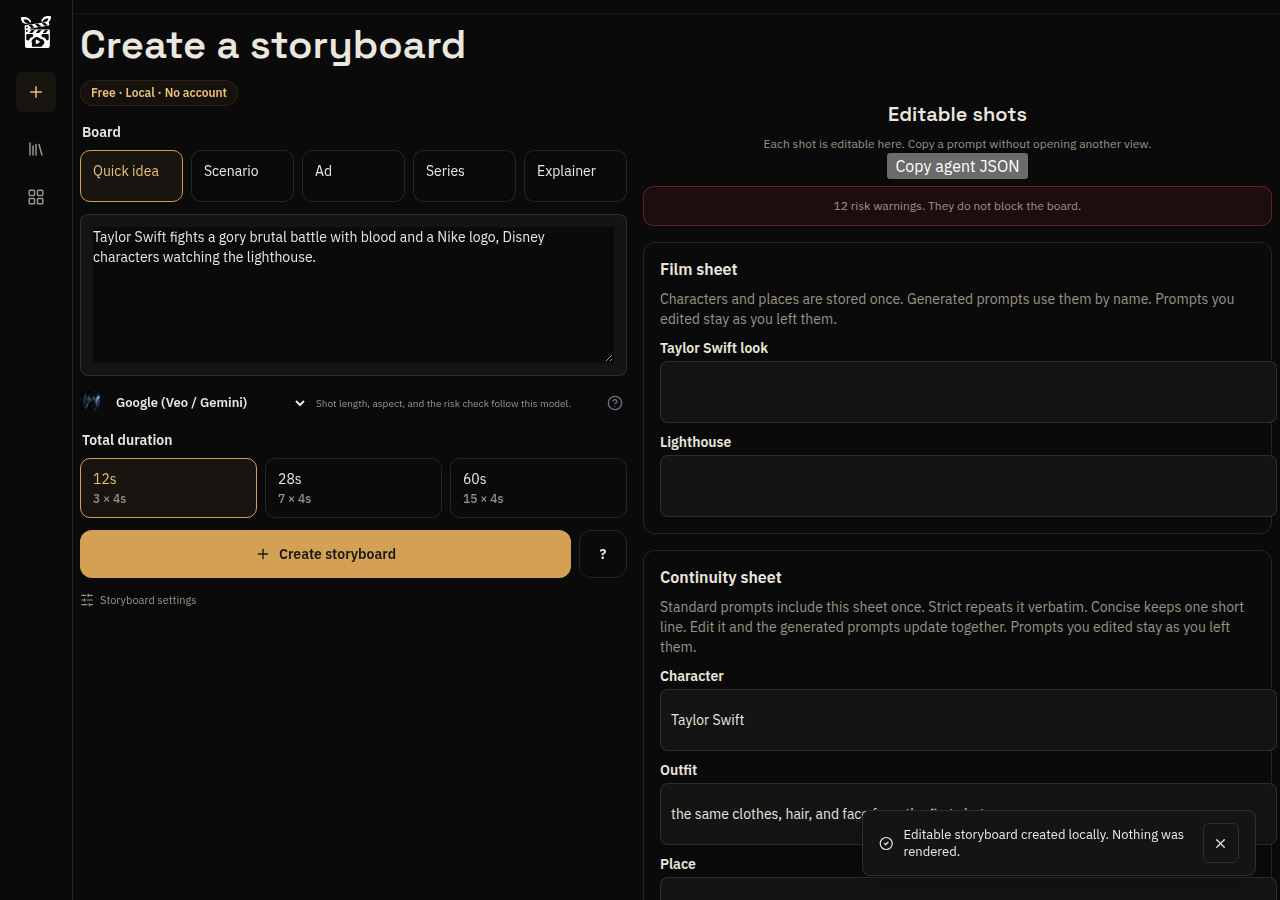
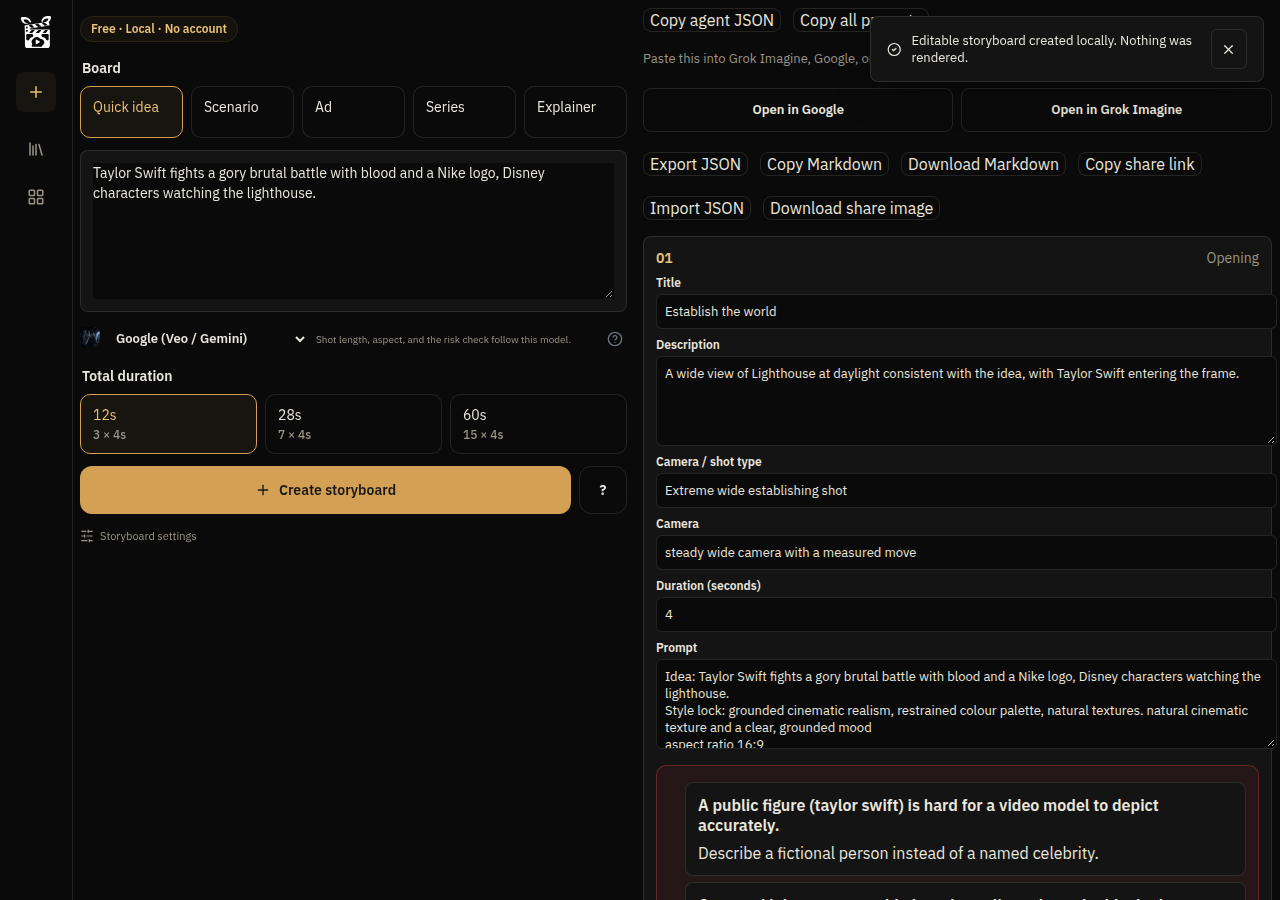
Key the rate limit on X-Real-IP and fix the review notes.
Ignore X-Forwarded-For, return the normalized style family for manga, keep the Lena story to four action sentences, and move the agent-JSON action and toasts off the form fields.

diff --git a/app/components/StudioCreationPanel.vue b/app/components/StudioCreationPanel.vue
@@ -442,7 +442,7 @@ onBeforeUnmount(()=>{clearTimeout(copiedTimer);if(referencePreview.value)URL.rev
     <StudioStepBuilder v-if="stepByStep && boardKind==='quick'" :scenes="builderScenes" :count="boardReady ? project.shots.length : count" @add="addBuilderScene" @remove="removeBuilderScene" @move="moveBuilderScene" @update="updateBuilderScene" @count="changeSceneCount" />
    </details>
   </form></div>
-  <section id="editable-shots" class="studio-preview-panel"><div class="studio-preview-heading"><h2>Editable shots</h2><p>Each shot is editable here. Copy a prompt without opening another view.</p><button v-if="boardReady" type="button" @click="copyAgentBoard">Copy agent JSON</button><p v-if="shotWarnings.length" class="studio-risk-summary" role="status">{{ shotWarnings.length }} risk {{ shotWarnings.length === 1 ? 'warning' : 'warnings' }}. They do not block the board.</p><p v-if="boardReady && boardKind==='quick' && project.detection?.hints?.length" class="studio-soft-hint">Names are optional on a quick idea. Add one if you want the film sheet to repeat a person.</p><ul v-if="boardReady && detectionWarnings.length" class="studio-scenario-warnings"><li v-for="warning in detectionWarnings" :key="warning.code + warning.message">{{ warning.message }}</li></ul></div><section v-if="boardReady && project.filmSheet" class="studio-continuity" aria-label="Film sheet"><h3>Film sheet</h3><p>Characters and places are stored once. Generated prompts use them by name. Prompts you edited stay as you left them.</p><label v-for="(character, index) in project.filmSheet.characters" :key="`cast-${index}`">{{ character.name }} look<input :value="character.look" :aria-label="`${character.name} look`" @change="editCast(index, 'look', $event.target.value)" /></label><label v-for="(place, index) in project.filmSheet.places" :key="`place-${index}`">{{ place.name }}<input :value="place.description" :aria-label="`${place.name} description`" @change="editPlace(index, $event.target.value)" /></label><p v-for="sequence in project.sequences || []" :key="sequence.order"><button type="button" @click="copyText(sequence.export, `Sequence ${sequence.order} copied`)">Copy sequence {{ sequence.order }} ({{ sequence.duration }}s)</button></p></section><section v-if="boardReady && project.sequenceMode==='continuous' && project.continuitySheet" class="studio-continuity" aria-label="Continuity sheet"><h3>Continuity sheet</h3><p>Standard prompts include this sheet once. Strict repeats it verbatim. Concise keeps one short line. Edit it and the generated prompts update together. Prompts you edited stay as you left them.</p><label>Character<input :value="project.continuitySheet.character" aria-label="Continuity character" @change="editSheet('character',$event.target.value)" /></label><label>Outfit<input :value="project.continuitySheet.appearance" aria-label="Continuity outfit" @change="editSheet('appearance',$event.target.value)" /></label><label>Place<input :value="project.continuitySheet.place" aria-label="Continuity place" @change="editSheet('place',$event.target.value)" /></label><label>Time of day / light<input :value="project.continuitySheet.time" aria-label="Continuity time of day" @change="editSheet('time',$event.target.value)" /></label><label>Lighting<input :value="project.continuitySheet.lighting" aria-label="Continuity lighting" @change="editSheet('lighting',$event.target.value)" /></label><label>Palette<input :value="project.continuitySheet.palette" aria-label="Continuity palette" @change="editSheet('palette',$event.target.value)" /></label><label>Style<input :value="project.continuitySheet.style" aria-label="Continuity style" @change="editSheet('style',$event.target.value)" /></label><label v-if="project.continuitySheet.dialogue">Dialogue<input :value="project.continuitySheet.dialogue" aria-label="Continuity dialogue" @change="editSheet('dialogue',$event.target.value)" /></label><p v-if="project.continuitySheet.avoid">Do not show: {{ project.continuitySheet.avoid }}</p></section><div class="studio-shot-toolbar"><button class="copy-prompt-button" type="button" @click="copyAllPrompts">{{ copiedKey==='all' ? 'Copied' : 'Copy all prompts' }}</button><p class="studio-paste-hint">Paste this into Grok Imagine, Google, or any other AI image or video model.</p><OpenInButtons v-if="boardReady" :prompt="boardOpenPrompt" :seed="1" /><button class="copy-prompt-button" type="button" @click="exportStoryboardJson">Export JSON</button><button class="copy-prompt-button" type="button" @click="copyMarkdown">{{ copiedKey==='markdown' ? 'Copied' : 'Copy Markdown' }}</button><button class="copy-prompt-button" type="button" @click="downloadMarkdown">Download Markdown</button><button class="copy-prompt-button" type="button" @click="copyShareLink">{{ copiedKey==='share' ? 'Copied' : 'Copy share link' }}</button><button class="copy-prompt-button" type="button" @click="$refs.importJson.click()">Import JSON</button><input ref="importJson" class="sr-only" type="file" accept="application/json,.json" @change="importStoryboardJson" /><button class="copy-prompt-button" type="button" @click="downloadShareImage">Download share image</button></div><p v-if="!boardReady" class="studio-shot-empty">Write an idea on the left, then create the storyboard.</p><ol v-else class="studio-shot-list" aria-label="Editable shots"><li v-for="(shot,index) in project.shots" :key="shot.id"><header class="studio-shot-card-heading"><span class="shot-number">{{String(index+1).padStart(2,'0')}}</span><span>{{shot.stage}}</span></header><label>Title<input :value="shot.title" :aria-label="`Title for shot ${index+1}`" @change="store.updateShot(shot.id,'title',$event.target.value)" /></label><label>Description<textarea :value="shot.action" :aria-label="`Description for shot ${index+1}`" @change="store.updateShot(shot.id,'action',$event.target.value)"></textarea></label><label>Camera / shot type<input :value="shot.framing" :aria-label="`Shot type for shot ${index+1}`" @change="store.updateShot(shot.id,'framing',$event.target.value)" /></label><label>Camera<input :value="shot.camera" :aria-label="`Camera for shot ${index+1}`" @change="store.updateShot(shot.id,'camera',$event.target.value)" /></label><label>Duration (seconds)<input type="number" min="2" max="15" :value="shot.duration" :aria-label="`Duration for shot ${index+1}`" @change="store.updateShot(shot.id,'duration',Number($event.target.value))" /></label><label>Prompt<textarea :value="shot.prompt" :aria-label="`Prompt for shot ${index+1}`" @change="store.updateShot(shot.id,'prompt',$event.target.value,false)"></textarea></label><p v-if="shot.promptEdited" class="studio-edited-mark">Edited by you</p><ul v-if="warningsFor(shot.id).length" class="studio-risk-list"><li v-for="item in warningsFor(shot.id)" :key="item.code"><strong>{{ item.message }}</strong> {{ item.fix }}</li></ul><button type="button" class="text-button" @click="store.regenerateOne(shot.id)">Regenerate this shot</button><button v-if="shot.promptEdited" type="button" class="text-button" @click="store.resetShotPrompt(shot.id)">Reset</button><button v-if="store.promptUndo && store.promptUndo.id === shot.id" type="button" class="text-button" @click="store.restorePromptUndo()">Undo</button><button class="copy-prompt-button" :class="{ 'is-copied': copiedKey===`shot:${shot.id}` }" type="button" :aria-label="`Copy prompt for shot ${index+1}`" @click="copyShotPrompt(shot.prompt, shot.id)"><Copy :size="13" />{{ copiedKey===`shot:${shot.id}` ? 'Copied' : 'Copy prompt' }}</button><OpenInButtons :prompt="shot.prompt" :seed="index" /><p class="studio-paste-hint">Paste this into Grok Imagine, Google, or any other AI image or video model.</p></li></ol><p v-if="boardReady" class="studio-thanks">Enjoying Moovicut? <a href="https://buymeacoffee.com/enzoc1977r" target="_blank" rel="noopener">Tips keep it free</a> <span>Tips pay for hosting and keep Moovicut free.</span><a v-if="SOCIAL_X_URL" class="studio-follow" :href="SOCIAL_X_URL" target="_blank" rel="noopener">Follow on X (it's free!)</a></p><nav class="studio-view-tabs" aria-label="Storyboard views"><button type="button" :aria-pressed="activeTab==='preview'" @click="activeTab='preview'">Preview</button><button type="button" :aria-pressed="activeTab==='explore'" @click="activeTab='explore'">Explore</button><button type="button" :aria-pressed="activeTab==='prompts'" @click="activeTab='prompts'">Prompts</button></nav><nav class="studio-provider-list" aria-label="Prompt targets"><span v-for="name in REFERENCE_MODEL_NAMES" :key="name">{{name}}</span></nav><p class="sr-only">Local prompt studies and storyboard results</p>
+  <section id="editable-shots" class="studio-preview-panel"><div class="studio-preview-heading"><h2>Editable shots</h2><p>Each shot is editable here. Copy a prompt without opening another view.</p><p v-if="shotWarnings.length" class="studio-risk-summary" role="status">{{ shotWarnings.length }} risk {{ shotWarnings.length === 1 ? 'warning' : 'warnings' }}. They do not block the board.</p><p v-if="boardReady && boardKind==='quick' && project.detection?.hints?.length" class="studio-soft-hint">Names are optional on a quick idea. Add one if you want the film sheet to repeat a person.</p><ul v-if="boardReady && detectionWarnings.length" class="studio-scenario-warnings"><li v-for="warning in detectionWarnings" :key="warning.code + warning.message">{{ warning.message }}</li></ul></div><section v-if="boardReady && project.filmSheet" class="studio-continuity" aria-label="Film sheet"><h3>Film sheet</h3><p>Characters and places are stored once. Generated prompts use them by name. Prompts you edited stay as you left them.</p><label v-for="(character, index) in project.filmSheet.characters" :key="`cast-${index}`">{{ character.name }} look<input :value="character.look" :aria-label="`${character.name} look`" @change="editCast(index, 'look', $event.target.value)" /></label><label v-for="(place, index) in project.filmSheet.places" :key="`place-${index}`">{{ place.name }}<input :value="place.description" :aria-label="`${place.name} description`" @change="editPlace(index, $event.target.value)" /></label><p v-for="sequence in project.sequences || []" :key="sequence.order"><button type="button" @click="copyText(sequence.export, `Sequence ${sequence.order} copied`)">Copy sequence {{ sequence.order }} ({{ sequence.duration }}s)</button></p></section><section v-if="boardReady && project.sequenceMode==='continuous' && project.continuitySheet" class="studio-continuity" aria-label="Continuity sheet"><h3>Continuity sheet</h3><p>Standard prompts include this sheet once. Strict repeats it verbatim. Concise keeps one short line. Edit it and the generated prompts update together. Prompts you edited stay as you left them.</p><label>Character<input :value="project.continuitySheet.character" aria-label="Continuity character" @change="editSheet('character',$event.target.value)" /></label><label>Outfit<input :value="project.continuitySheet.appearance" aria-label="Continuity outfit" @change="editSheet('appearance',$event.target.value)" /></label><label>Place<input :value="project.continuitySheet.place" aria-label="Continuity place" @change="editSheet('place',$event.target.value)" /></label><label>Time of day / light<input :value="project.continuitySheet.time" aria-label="Continuity time of day" @change="editSheet('time',$event.target.value)" /></label><label>Lighting<input :value="project.continuitySheet.lighting" aria-label="Continuity lighting" @change="editSheet('lighting',$event.target.value)" /></label><label>Palette<input :value="project.continuitySheet.palette" aria-label="Continuity palette" @change="editSheet('palette',$event.target.value)" /></label><label>Style<input :value="project.continuitySheet.style" aria-label="Continuity style" @change="editSheet('style',$event.target.value)" /></label><label v-if="project.continuitySheet.dialogue">Dialogue<input :value="project.continuitySheet.dialogue" aria-label="Continuity dialogue" @change="editSheet('dialogue',$event.target.value)" /></label><p v-if="project.continuitySheet.avoid">Do not show: {{ project.continuitySheet.avoid }}</p></section><div class="studio-shot-toolbar"><button v-if="boardReady" class="copy-prompt-button" type="button" @click="copyAgentBoard">Copy agent JSON</button><button class="copy-prompt-button" type="button" @click="copyAllPrompts">{{ copiedKey==='all' ? 'Copied' : 'Copy all prompts' }}</button><p class="studio-paste-hint">Paste this into Grok Imagine, Google, or any other AI image or video model.</p><OpenInButtons v-if="boardReady" :prompt="boardOpenPrompt" :seed="1" /><button class="copy-prompt-button" type="button" @click="exportStoryboardJson">Export JSON</button><button class="copy-prompt-button" type="button" @click="copyMarkdown">{{ copiedKey==='markdown' ? 'Copied' : 'Copy Markdown' }}</button><button class="copy-prompt-button" type="button" @click="downloadMarkdown">Download Markdown</button><button class="copy-prompt-button" type="button" @click="copyShareLink">{{ copiedKey==='share' ? 'Copied' : 'Copy share link' }}</button><button class="copy-prompt-button" type="button" @click="$refs.importJson.click()">Import JSON</button><input ref="importJson" class="sr-only" type="file" accept="application/json,.json" @change="importStoryboardJson" /><button class="copy-prompt-button" type="button" @click="downloadShareImage">Download share image</button></div><p v-if="!boardReady" class="studio-shot-empty">Write an idea on the left, then create the storyboard.</p><ol v-else class="studio-shot-list" aria-label="Editable shots"><li v-for="(shot,index) in project.shots" :key="shot.id"><header class="studio-shot-card-heading"><span class="shot-number">{{String(index+1).padStart(2,'0')}}</span><span>{{shot.stage}}</span></header><label>Title<input :value="shot.title" :aria-label="`Title for shot ${index+1}`" @change="store.updateShot(shot.id,'title',$event.target.value)" /></label><label>Description<textarea :value="shot.action" :aria-label="`Description for shot ${index+1}`" @change="store.updateShot(shot.id,'action',$event.target.value)"></textarea></label><label>Camera / shot type<input :value="shot.framing" :aria-label="`Shot type for shot ${index+1}`" @change="store.updateShot(shot.id,'framing',$event.target.value)" /></label><label>Camera<input :value="shot.camera" :aria-label="`Camera for shot ${index+1}`" @change="store.updateShot(shot.id,'camera',$event.target.value)" /></label><label>Duration (seconds)<input type="number" min="2" max="15" :value="shot.duration" :aria-label="`Duration for shot ${index+1}`" @change="store.updateShot(shot.id,'duration',Number($event.target.value))" /></label><label>Prompt<textarea :value="shot.prompt" :aria-label="`Prompt for shot ${index+1}`" @change="store.updateShot(shot.id,'prompt',$event.target.value,false)"></textarea></label><p v-if="shot.promptEdited" class="studio-edited-mark">Edited by you</p><ul v-if="warningsFor(shot.id).length" class="studio-risk-list"><li v-for="item in warningsFor(shot.id)" :key="item.code"><strong>{{ item.message }}</strong> {{ item.fix }}</li></ul><button type="button" class="text-button" @click="store.regenerateOne(shot.id)">Regenerate this shot</button><button v-if="shot.promptEdited" type="button" class="text-button" @click="store.resetShotPrompt(shot.id)">Reset</button><button v-if="store.promptUndo && store.promptUndo.id === shot.id" type="button" class="text-button" @click="store.restorePromptUndo()">Undo</button><button class="copy-prompt-button" :class="{ 'is-copied': copiedKey===`shot:${shot.id}` }" type="button" :aria-label="`Copy prompt for shot ${index+1}`" @click="copyShotPrompt(shot.prompt, shot.id)"><Copy :size="13" />{{ copiedKey===`shot:${shot.id}` ? 'Copied' : 'Copy prompt' }}</button><OpenInButtons :prompt="shot.prompt" :seed="index" /><p class="studio-paste-hint">Paste this into Grok Imagine, Google, or any other AI image or video model.</p></li></ol><p v-if="boardReady" class="studio-thanks">Enjoying Moovicut? <a href="https://buymeacoffee.com/enzoc1977r" target="_blank" rel="noopener">Tips keep it free</a> <span>Tips pay for hosting and keep Moovicut free.</span><a v-if="SOCIAL_X_URL" class="studio-follow" :href="SOCIAL_X_URL" target="_blank" rel="noopener">Follow on X (it's free!)</a></p><nav class="studio-view-tabs" aria-label="Storyboard views"><button type="button" :aria-pressed="activeTab==='preview'" @click="activeTab='preview'">Preview</button><button type="button" :aria-pressed="activeTab==='explore'" @click="activeTab='explore'">Explore</button><button type="button" :aria-pressed="activeTab==='prompts'" @click="activeTab='prompts'">Prompts</button></nav><nav class="studio-provider-list" aria-label="Prompt targets"><span v-for="name in REFERENCE_MODEL_NAMES" :key="name">{{name}}</span></nav><p class="sr-only">Local prompt studies and storyboard results</p>
    <div class="studio-genre-filters" role="toolbar" aria-label="Filter prompts by genre"><button v-for="tag in genreTags" :key="tag" type="button" :aria-pressed="genreFilter===tag" @click="genreFilter=tag">{{tag}}</button></div>
    <div v-if="activeTab==='preview'" class="studio-inspiration-cards"><article v-for="study in visibleStudies" :key="study.title" class="studio-prompt-card"><picture><source :srcset="joinAppPath(appBaseURL,promptImageSrc(study.file,'webp'))" type="image/webp" /><img :src="joinAppPath(appBaseURL,promptImageSrc(study.file,'jpg'))" :alt="study.title" width="1280" height="720" loading="lazy" decoding="async" /></picture><div class="studio-prompt-card-body"><span class="studio-genre-chip">{{study.genre}}</span><strong>{{study.title}}</strong><p>{{study.premise}}</p><button class="studio-card-copy" type="button" @click="copyStudyPrompt(study)">{{ copiedKey===`study:${study.title}` ? 'Copied' : 'Copy prompt' }}</button></div></article></div>
    <div v-else-if="activeTab==='explore'" class="studio-explore"><h2>Explore story ideas</h2><p>Choose a study to use its premise in your local storyboard.</p><div class="studio-inspiration-cards"><article v-for="study in visibleStudies" :key="study.title" class="studio-prompt-card"><picture><source :srcset="joinAppPath(appBaseURL,promptImageSrc(study.file,'webp'))" type="image/webp" /><img :src="joinAppPath(appBaseURL,promptImageSrc(study.file,'jpg'))" :alt="study.title" width="1280" height="720" loading="lazy" decoding="async" /></picture><div class="studio-prompt-card-body"><span class="studio-genre-chip">{{study.genre}}</span><strong>{{study.title}}</strong><p>{{study.premise}}</p><button class="studio-card-copy" type="button" @click="useStudy(study)">Use this idea</button></div></article></div></div>

diff --git a/app/pages/agents.vue b/app/pages/agents.vue
@@ -43,7 +43,7 @@ useSeoMeta({
   <section class="docs-section"><h2>Endpoints</h2><ul class="agent-capability-grid"><li class="card"><h3>MCP</h3><p><code>POST /mcp</code></p><p>JSON-RPC <code>initialize</code>, <code>tools/list</code>, and <code>tools/call</code>. Tools: <code>plan_storyboard</code>, <code>export_prompts</code>, <code>validate_storyboard</code>.</p></li><li class="card"><h3>OpenAPI</h3><p><code>GET /openapi.json</code></p><p>OpenAPI 3.1 for GPT, Gemini, Muse, and other connector agents.</p></li><li class="card"><h3>Storyboard</h3><p><code>POST /api/v1/storyboard</code></p><p>JSON in, storyboard out. <code>compact: true</code> or <code>?compact=1</code> returns the short payload.</p></li></ul><p>Discovery file: <a href="/.well-known/mcp.json">/.well-known/mcp.json</a>. Guide: <a href="/agents.md">/agents.md</a>. Rate limit: 30 requests per minute per IP. Bodies are limited to 32 KB on the storyboard route and 128 KB on MCP.</p></section>
   <section class="docs-section"><h2>Minimal request</h2><div class="code-sample"><div class="code-sample-header"><span>curl</span></div><pre>{{ curlExample }}</pre></div><p>The response includes <code>studioUrl</code>, a <code>/studio#board=</code> link. The hash stays in the browser, so opening it does not upload the premise again.</p></section>
   <section class="docs-section"><h2>Custom scenes</h2><p>Omit <code>scenes</code> for the 5 × 3s default. Include it when each scene needs its own beat, duration, camera, or lighting. The array length becomes the scene count.</p><div class="code-sample"><div class="code-sample-header"><span>scenes</span></div><pre>{{ scenesExample }}</pre></div></section>
-  <section class="docs-section"><h2>Scenario</h2><p>Send <code>scenario</code> or set <code>mode</code> to <code>scenario</code>. Characters, places, and light are stored once and resolved in each generated prompt. <code>style</code> can be <code>anime</code> (<code>manga</code> is an alias), <code>cinema</code>, or <code>documentary</code>, with a genre from that family. The same preset locks a plain premise too. An unknown family is 400. The default preset is cinema / drama. <code>input: "prose"</code> detects the same structure from free text and returns confidence and warnings. A normal premise is not auto-detected. A <code>prompt</code> on a scene is kept unless <code>overwritePrompt</code> is true. Validation errors come back together in <code>errors</code>. <code>regenerateShot</code> plus <code>project</code> rebuilds one shot. <code>warnings</code> appears only when a shot looks risky and never blocks the board. <code>format: "agent"</code> returns <code>shotboard.compact.v1</code> for every mode. Post that document back to resume it. Shots marked <code>promptEdited</code> stay unless <code>overwritePrompt</code> is true. The rate limit uses the rightmost <code>X-Forwarded-For</code> address and counts across connections. A repeated model warning is returned once per board. <code>model</code> accepts <code>grok</code>, <code>google</code>, <code>sora</code>, <code>kling</code>, <code>runway</code>, <code>luma</code>, <code>wan</code>, or <code>generic</code>. A full response includes <code>modelProfile</code> and the source URLs.</p></section>
+  <section class="docs-section"><h2>Scenario</h2><p>Send <code>scenario</code> or set <code>mode</code> to <code>scenario</code>. Characters, places, and light are stored once and resolved in each generated prompt. <code>style</code> can be <code>anime</code> (<code>manga</code> is an alias), <code>cinema</code>, or <code>documentary</code>, with a genre from that family. The same preset locks a plain premise too. An unknown family is 400. The default preset is cinema / drama. <code>input: "prose"</code> detects the same structure from free text and returns confidence and warnings. A normal premise is not auto-detected. A <code>prompt</code> on a scene is kept unless <code>overwritePrompt</code> is true. Validation errors come back together in <code>errors</code>. <code>regenerateShot</code> plus <code>project</code> rebuilds one shot. <code>warnings</code> appears only when a shot looks risky and never blocks the board. <code>format: "agent"</code> returns <code>shotboard.compact.v1</code> for every mode. Post that document back to resume it. Shots marked <code>promptEdited</code> stay unless <code>overwritePrompt</code> is true. The rate limit uses Railway's <code>X-Real-IP</code> and ignores <code>X-Forwarded-For</code>. It counts across connections. A repeated model warning is returned once per board. <code>model</code> accepts <code>grok</code>, <code>google</code>, <code>sora</code>, <code>kling</code>, <code>runway</code>, <code>luma</code>, <code>wan</code>, or <code>generic</code>. A full response includes <code>modelProfile</code> and the source URLs.</p></section>
   <section class="docs-section"><h2>Ad, series, and explainer</h2><p><code>mode</code> <code>ad</code> takes a product and a benefit, plus an optional call to action, and plans hook, hero, proof, and pack shot. The product stays locked on the film sheet. <code>mode</code> <code>series</code> plans 3 to 8 vertical episodes that share one character and one place. <code>mode</code> <code>explainer</code> turns a numbered list into one action per shot and snaps each duration to the selected model. A shot marked <code>promptEdited</code> is kept unless <code>overwritePrompt</code> is true.</p></section>
   <section class="docs-section"><h2>Copy prompt for your AI</h2><p>Paste this into Cursor, Claude, ChatGPT, or Grok.</p><div class="code-sample"><div class="code-sample-header"><span>Setup</span><button type="button" @click="copyAgentPrompt">{{ copied ? 'Copied' : 'Copy prompt for your AI' }}</button></div><pre>{{ agentPrompt }}</pre></div></section>
  </div></main><SiteFooter /></div>

diff --git a/app/utils/prose-detect.js b/app/utils/prose-detect.js
@@ -264,28 +264,26 @@ function detectScenes(text, characters, places, language) {
   let lastWhere = places[0]?.name || ''
   splitBlocks(text).forEach(block => {
     sentencesOf(block).forEach(sentence => {
-      const actions = clausesOf(sentence)
-      if (!actions.length) return
-      actions.forEach(action => {
-        const foundNames = namesIn(`${sentence} ${action}`, characters)
-        const who = foundNames.length ? foundNames.slice(0, 2).map(item => item.name).join(language === 'fr' ? ' et ' : ' and ') : lastWho
-        if (who) lastWho = who.split(/\s+(?:et|and)\s+/)[0]
-        const foundPlace = placeIn(`${sentence} ${action}`, places)
-        const where = foundPlace?.name || lastWhere
-        if (where) lastWhere = where
-        const index = scenes.length
-        let confidence = 'high'
-        if (!foundNames.length || !foundPlace) confidence = 'medium'
-        if (!where) {
-          confidence = 'low'
-          warnings.push({ code: 'missing_place', message: `No place found for scene ${index + 1}.`, target: 'scenes', index, options: places.map(place => place.name) })
-        }
-        if (!who) {
-          confidence = 'low'
-          warnings.push({ code: 'missing_character', message: `No character found for scene ${index + 1}.`, target: 'scenes', index, options: characters.map(character => character.name) })
-        }
-        scenes.push({ number: index + 1, who: who || '', where: where || '', what: cleanText(action).replace(/^[,;:\s]+/, '').replace(/[.!?]+$/, ''), duration: 3, confidence })
-      })
+      if (!hasVerb(sentence) || JUMP.test(sentence) && tokens(sentence).length < 3) return
+      const action = cleanText(sentence).replace(/^[,;:\s]+/, '').replace(/[.!?]+$/, '')
+      const foundNames = namesIn(sentence, characters)
+      const who = foundNames.length ? foundNames.slice(0, 2).map(item => item.name).join(language === 'fr' ? ' et ' : ' and ') : lastWho
+      if (who) lastWho = who.split(/\s+(?:et|and)\s+/)[0]
+      const foundPlace = placeIn(sentence, places)
+      const where = foundPlace?.name || lastWhere
+      if (where) lastWhere = where
+      const index = scenes.length
+      let confidence = 'high'
+      if (!foundNames.length || !foundPlace) confidence = 'medium'
+      if (!where) {
+        confidence = 'low'
+        warnings.push({ code: 'missing_place', message: `No place found for scene ${index + 1}.`, target: 'scenes', index, options: places.map(place => place.name) })
+      }
+      if (!who) {
+        confidence = 'low'
+        warnings.push({ code: 'missing_character', message: `No character found for scene ${index + 1}.`, target: 'scenes', index, options: characters.map(character => character.name) })
+      }
+      scenes.push({ number: index + 1, who: who || '', where: where || '', what: action, duration: 3, confidence })
     })
   })
   return { scenes, warnings }

diff --git a/app/assets/css/main.css b/app/assets/css/main.css
@@ -331,7 +331,7 @@ input:focus-visible,textarea:focus-visible,select:focus-visible,button:focus-vis
 .project-library p { color:var(--text-secondary);font-size:12px; }
 .settings-form { display:flex;flex-direction:column;gap:12px; }
 .settings-form label { display:flex;align-items:center;justify-content:space-between;gap:16px;font-size:13px; }
-.toast,.shotboard-toast { position:fixed;right:24px;bottom:24px;z-index:120;max-width:360px;padding:12px 16px;border:1px solid var(--border);border-radius:8px;background:var(--surface);color:var(--text);box-shadow:0 12px 40px #00000033;font-size:13px; }
+.toast,.shotboard-toast { position:fixed;top:16px;right:16px;bottom:auto;left:auto;z-index:120;max-width:min(360px,calc(100vw - 32px));padding:12px 16px;border:1px solid var(--border);border-radius:8px;background:var(--surface);color:var(--text);box-shadow:0 12px 40px #00000033;font-size:13px; }
 .download-format { opacity:.65;font-size:10px; }
 @media (max-width:1023px) {
  .site-header { padding:0; }
@@ -511,6 +511,9 @@ input:focus-visible,textarea:focus-visible,select:focus-visible,button:focus-vis
 .studio-risk-list li { margin:6px 0; }
 .studio-soft-hint { margin:8px 0; color:var(--text-secondary); font-size:13px; }
 .toast { display:flex; align-items:center; gap:10px; }
+@media (max-width:767px) {
+  .toast,.shotboard-toast { top:72px; right:12px; left:12px; max-width:none; }
+}
 .toast-action { min-height:32px; padding:4px 10px; border:1px solid var(--accent); border-radius:8px; color:var(--accent-hover); font-weight:600; }
 .studio-edited-mark { margin:4px 0; font-size:12px; color:var(--accent-hover); }
 @media (max-width: 767px) {

diff --git a/app/utils/prompt-engine.js b/app/utils/prompt-engine.js
@@ -683,7 +683,7 @@ function createPresetStoryboard(options, mode) {
     model,
     target_model: model,
     genre: preset.genre,
-    style: shotStyle || (presetFamilies().includes(String(options.style || '').trim().toLowerCase()) ? preset.family : 'cinematic'),
+    style: shotStyle || (canonicalStyleFamily(options.style) ? preset.family : 'cinematic'),
     lockedStyle: preset.visual,
     preset,
     promptDensity: density,
@@ -767,7 +767,7 @@ function createScenarioStoryboard(options) {
     model,
     target_model: model,
     genre,
-    style: shotStyle || (presetFamilies().includes(String(options.style || '').trim().toLowerCase()) ? preset.family : (STYLES.some(item => item.id === options.style) ? options.style : 'cinematic')),
+    style: shotStyle || (canonicalStyleFamily(options.style) ? preset.family : (STYLES.some(item => item.id === options.style) ? options.style : 'cinematic')),
     lockedStyle,
     preset,
     promptDensity: density,

diff --git a/AGENTS.md b/AGENTS.md
@@ -110,7 +110,7 @@ Quick idea, Step-by-step, continuous story, scenario, ad, series, and explainer 
 
 The personal library (`shotboard.library.v1`) saves characters, places, and styles in this browser only. Export and import that JSON file from `/studio`. Nothing is uploaded.
 
-Send `format: "agent"` to get `shotboard.compact.v1` for any mode: title, premise, model, aspect, mode, style, genre, film sheet, and shots. Post that document back to resume it. Shots with `promptEdited` stay as written unless `overwritePrompt` is true, which regenerates them. The default compact plan response does not add these fields. `/api/*` and `/mcp` are limited to 30 requests a minute per client IP. The limiter uses the rightmost `X-Forwarded-For` entry, the address the trusted proxy appends, and the same bucket applies across connections.
+Send `format: "agent"` to get `shotboard.compact.v1` for any mode: title, premise, model, aspect, mode, style, genre, film sheet, and shots. Post that document back to resume it. Shots with `promptEdited` stay as written unless `overwritePrompt` is true, which regenerates them. The default compact plan response does not add these fields. `/api/*` and `/mcp` are limited to 30 requests a minute per client IP. The limiter uses Railway's `X-Real-IP` (the visitor address; Cloudflare sits in front, so `X-Forwarded-For` is not read) and falls back to the socket address. The same bucket applies across connections.
 
 ## Target models
 

diff --git a/public/agents.md b/public/agents.md
@@ -110,7 +110,7 @@ Quick idea, Step-by-step, continuous story, scenario, ad, series, and explainer 
 
 The personal library (`shotboard.library.v1`) saves characters, places, and styles in this browser only. Export and import that JSON file from `/studio`. Nothing is uploaded.
 
-Send `format: "agent"` to get `shotboard.compact.v1` for any mode: title, premise, model, aspect, mode, style, genre, film sheet, and shots. Post that document back to resume it. Shots with `promptEdited` stay as written unless `overwritePrompt` is true, which regenerates them. The default compact plan response does not add these fields. `/api/*` and `/mcp` are limited to 30 requests a minute per client IP. The limiter uses the rightmost `X-Forwarded-For` entry, the address the trusted proxy appends, and the same bucket applies across connections.
+Send `format: "agent"` to get `shotboard.compact.v1` for any mode: title, premise, model, aspect, mode, style, genre, film sheet, and shots. Post that document back to resume it. Shots with `promptEdited` stay as written unless `overwritePrompt` is true, which regenerates them. The default compact plan response does not add these fields. `/api/*` and `/mcp` are limited to 30 requests a minute per client IP. The limiter uses Railway's `X-Real-IP` (the visitor address; Cloudflare sits in front, so `X-Forwarded-For` is not read) and falls back to the socket address. The same bucket applies across connections.
 
 ## Target models
 
